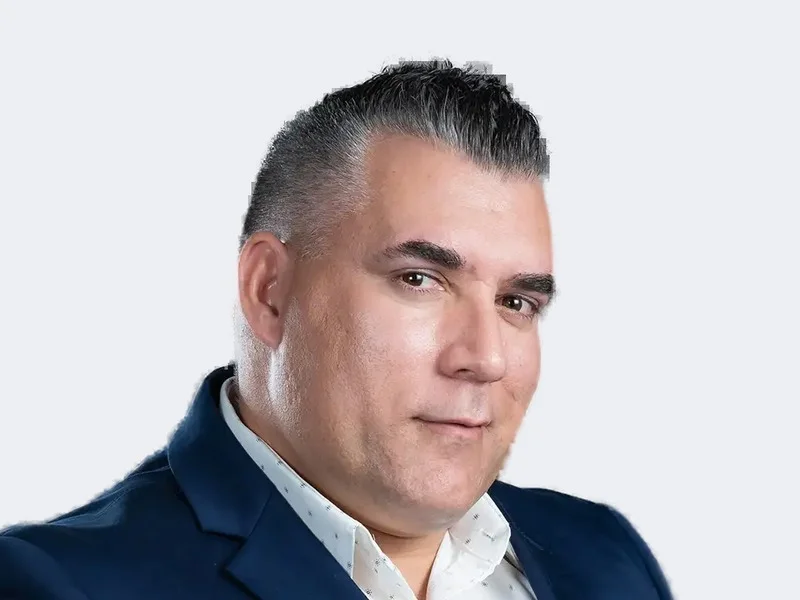
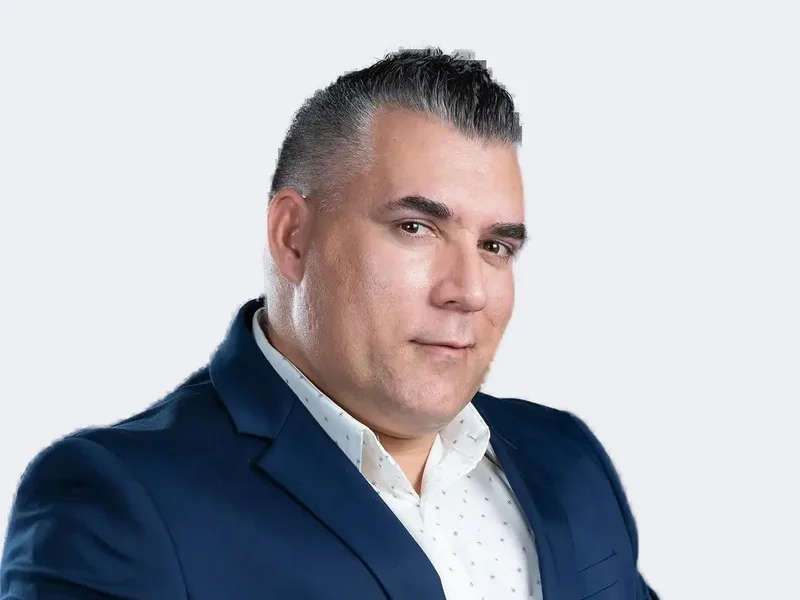
fix(equipo): fotos hasta los hombros, fichas centradas y un solo contacto debajo
Pedido de Dominga (5-nov, audio 17:05): que no se corte a nadie por el cuello y que el teléfono y el WhatsApp vayan una sola vez debajo de los tres perfiles.

Claude-Session: https://claude.ai/code/session_01A7QaDkz719kxgqzJrKCDLK

diff --git a/public/styles/main.css b/public/styles/main.css
@@ -1124,3 +1124,7 @@ body.has-ticker .contact-ticker { position: fixed; top: 0; left: 0; right: 0; z-
 .team-grid .team-info { flex: 1; display: flex; flex-direction: column; }
 .team-grid .team-contact { margin-top: auto; display: flex; flex-direction: column; align-items: stretch; align-self: stretch; text-align: inherit; gap: 4px; }
 .team-grid .team-contact a { white-space: nowrap; }
+.team-contact-shared { display: flex; justify-content: center; flex-wrap: wrap; gap: 12px 32px; margin-top: 40px; }
+.team-contact-shared a { font-weight: 600; color: var(--navy-mid); text-decoration: none; font-size: 1rem; }
+.team-contact-shared a span { color: var(--red); text-transform: uppercase; letter-spacing: .05em; font-size: .8rem; margin-right: 6px; }
+.team-contact-shared a:hover { color: var(--red); }

diff --git a/src/styles/main.css b/src/styles/main.css
@@ -938,3 +938,7 @@ body.has-ticker .contact-ticker { position: fixed; top: 0; left: 0; right: 0; z-
 .team-grid .team-info { flex: 1; display: flex; flex-direction: column; }
 .team-grid .team-contact { margin-top: auto; display: flex; flex-direction: column; align-items: stretch; align-self: stretch; text-align: inherit; gap: 4px; }
 .team-grid .team-contact a { white-space: nowrap; }
+.team-contact-shared { display: flex; justify-content: center; flex-wrap: wrap; gap: 12px 32px; margin-top: 40px; }
+.team-contact-shared a { font-weight: 600; color: var(--navy-mid); text-decoration: none; font-size: 1rem; }
+.team-contact-shared a span { color: var(--red); text-transform: uppercase; letter-spacing: .05em; font-size: .8rem; margin-right: 6px; }
+.team-contact-shared a:hover { color: var(--red); }
